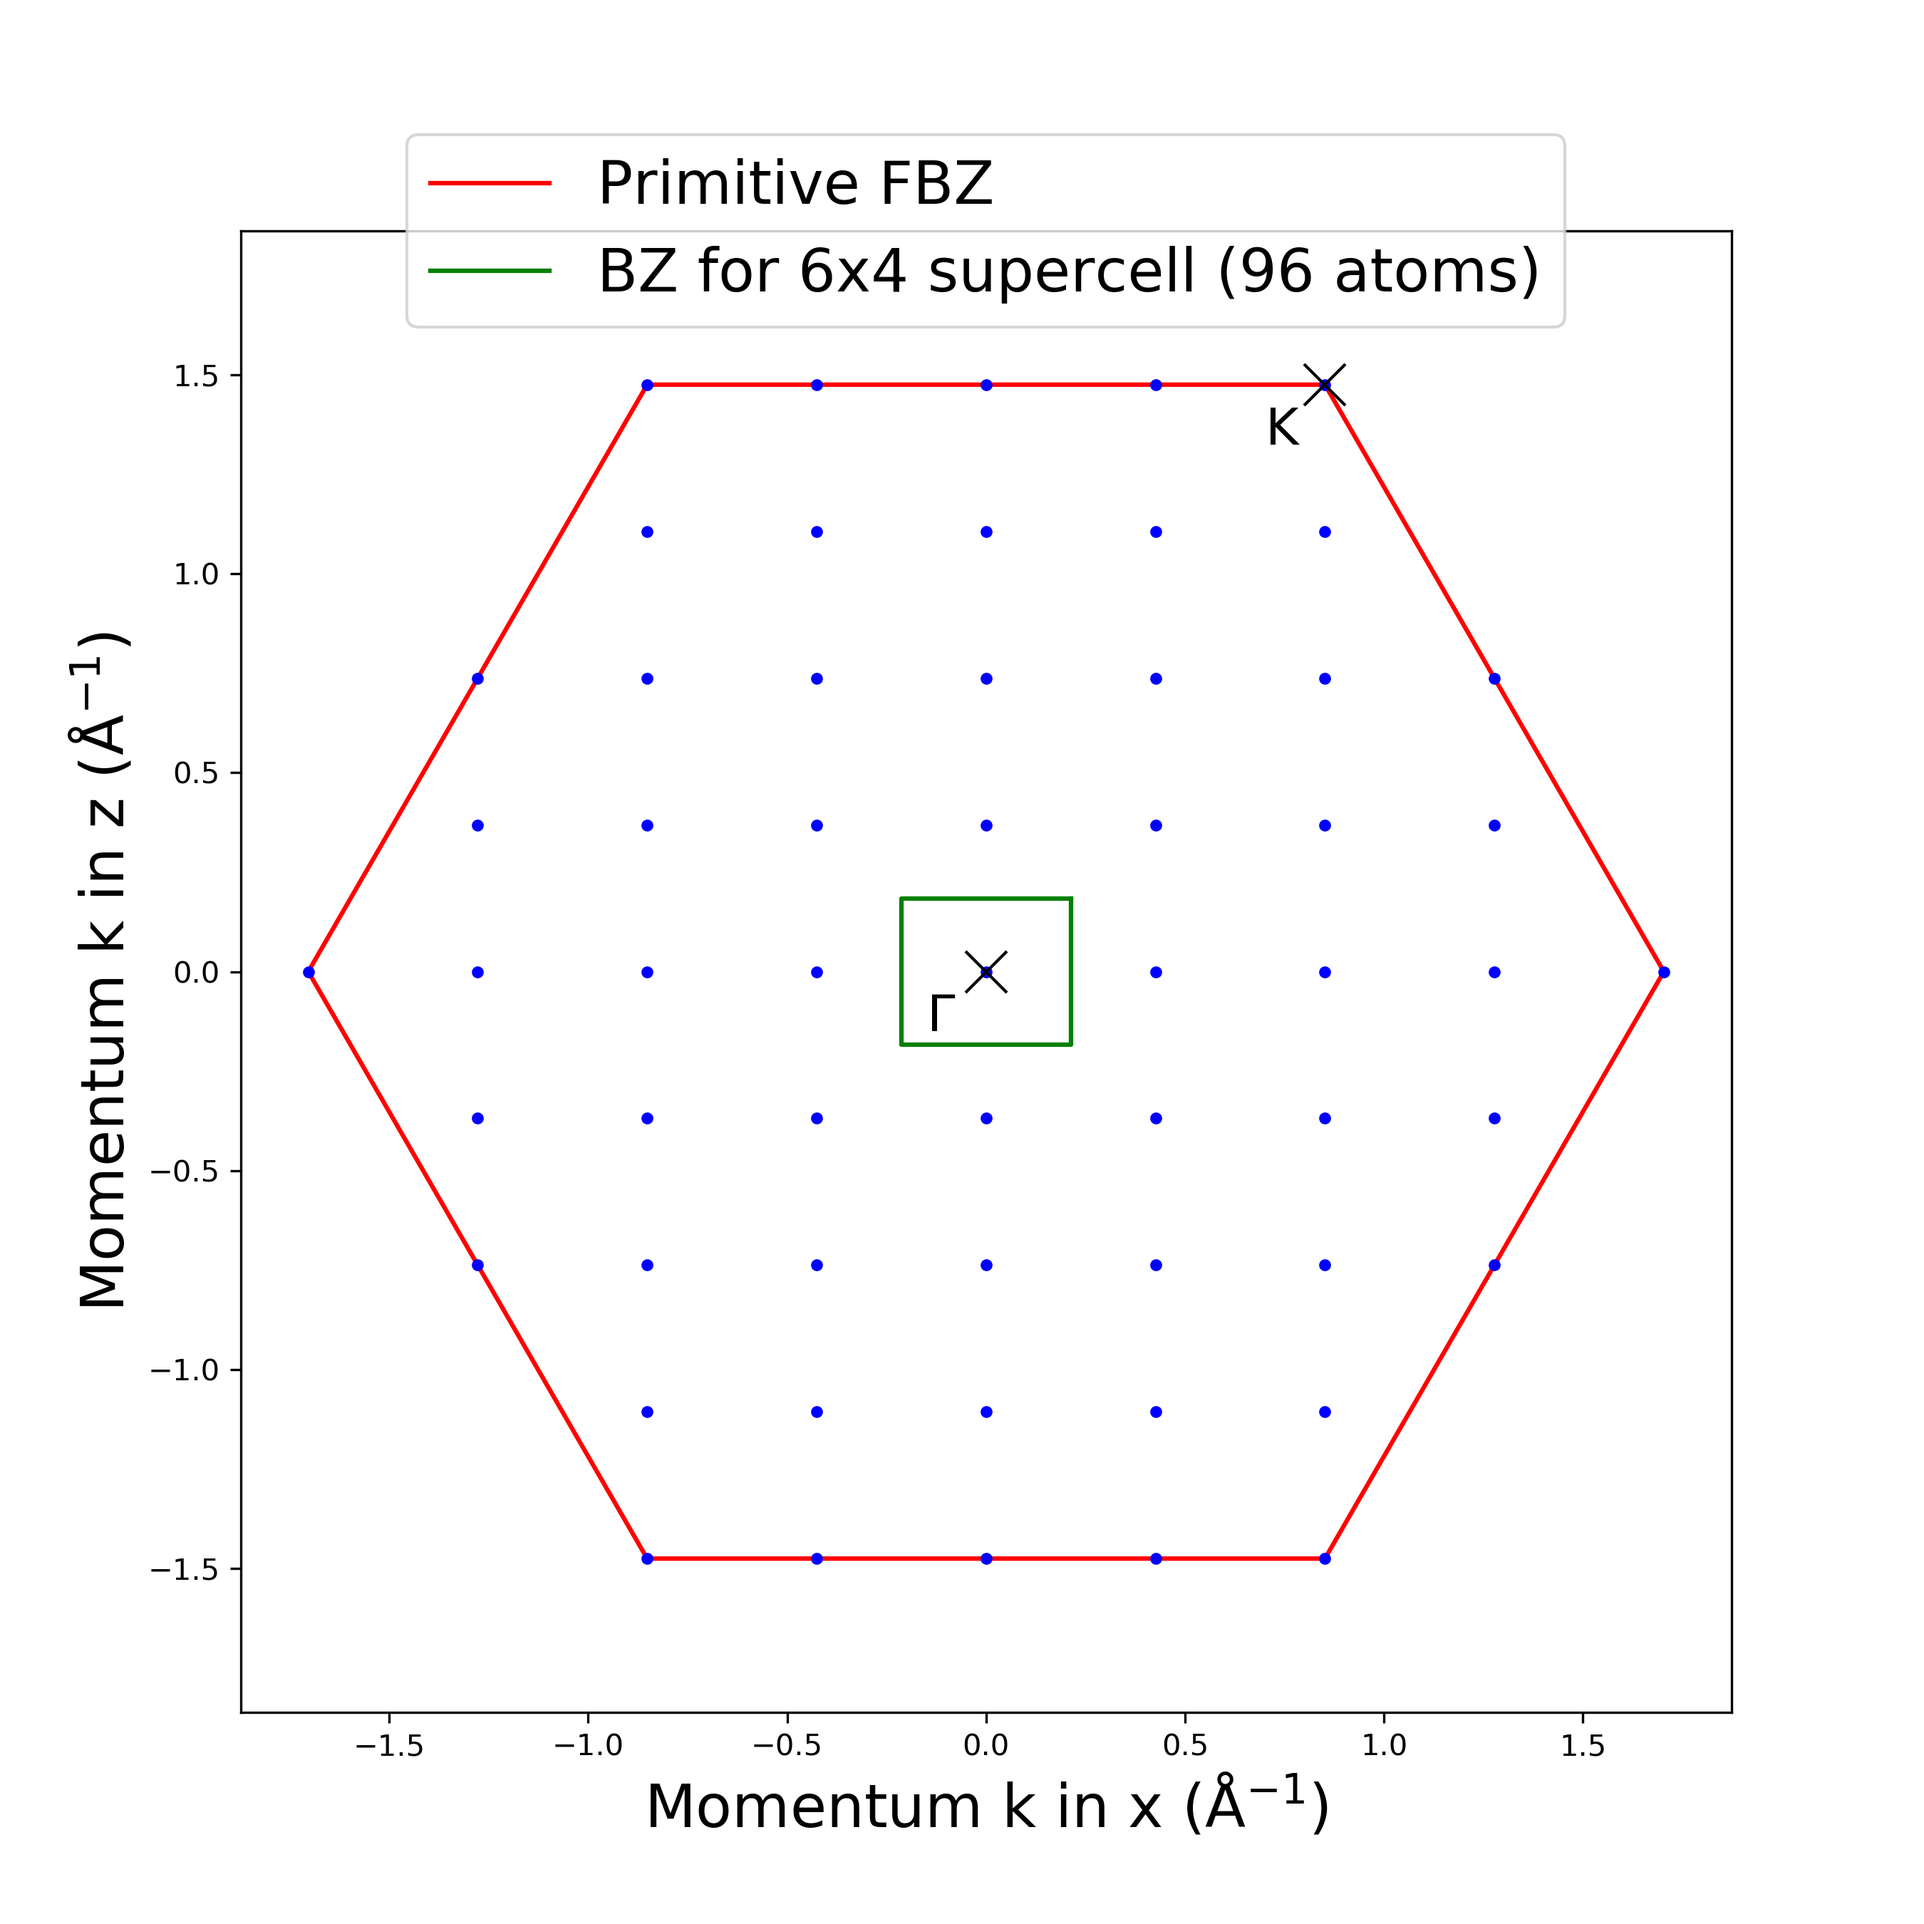
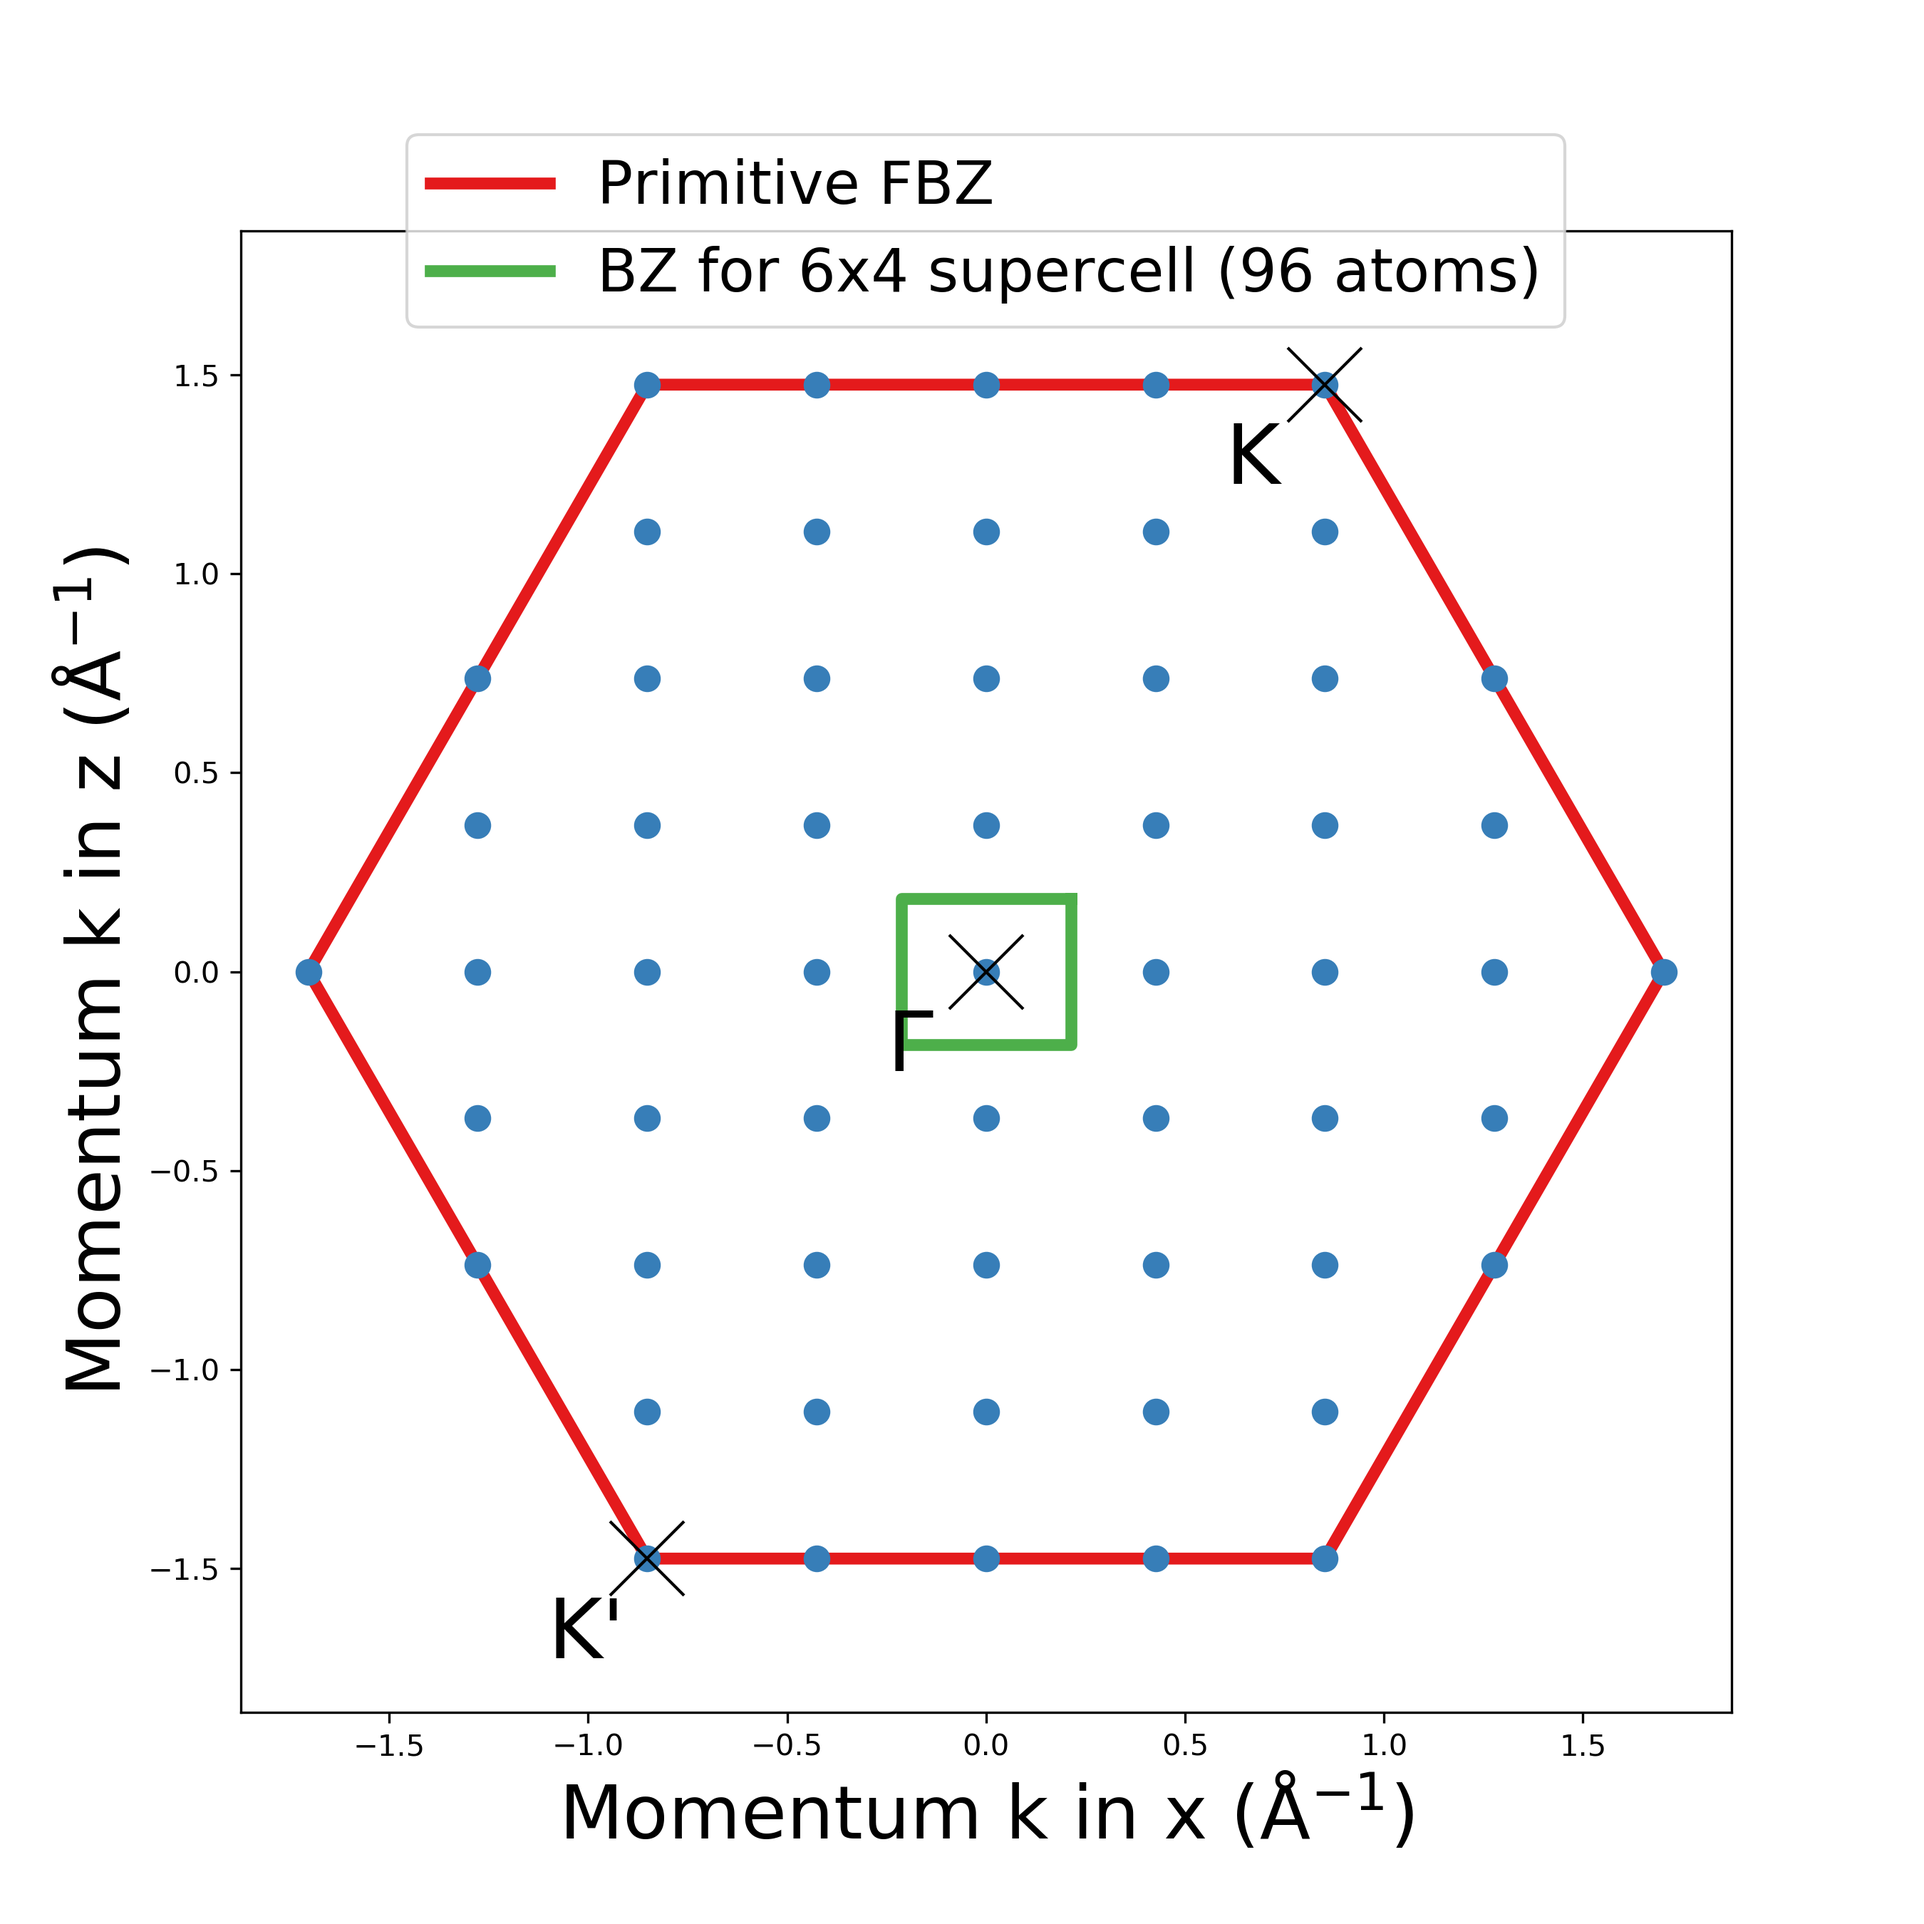
k points figures modified to be more readable in article

diff --git a/big-k-points/grille_bigdft.py b/big-k-points/grille_bigdft.py
@@ -95,26 +95,38 @@ for i in range(len(final)):
 
 # Affichage du graphique
 plt.figure(1, figsize=(9, 9))
-fbr.plot_hex(b_uni, color="r", label="Primitive FBZ")
-fbr.plot_rec(bx, bz, color="g", label="BZ for 9x6 supercell (180 atoms)")
-plt.plot(pointx, pointz, "ob", markersize=3)
-plt.plot(0, 0, "kx", markersize=14)
+fbr.plot_hex(b_uni, color="#e41a1c", label="Primitive FBZ", linewidth="4")
+fbr.plot_rec(bx, bz, color="#4daf4a", label="BZ for 6x4 supercell (96 atoms)", linewidth="4")
+plt.plot(pointx, pointz, "o", color="#377eb8", markersize=8)
+plt.plot(0, 0, "kx", markersize=25)
 plt.plot(
     1 / 3 * b_uni * np.cos(np.pi / 6),
     1 / 3 * b_uni + 1 / 3 * b_uni * np.sin(np.pi / 6),
     "kx",
-    markersize=14,
+    markersize=25,
 )
-plt.text(-0.13, -0.13, "$\Gamma$", fontsize=17)
+plt.plot(
+    - 1 / 3 * b_uni * np.cos(np.pi / 6),
+    - 1 / 3 * b_uni - 1 / 3 * b_uni * np.sin(np.pi / 6),
+    "kx",
+    markersize=25,
+)
+plt.text(-0.25, -0.25, "$\Gamma$", fontsize=28)
 plt.text(
-    1 / 3 * b_uni * np.cos(np.pi / 6) - 0.15,
-    1 / 3 * b_uni + 1 / 3 * b_uni * np.sin(np.pi / 6) - 0.15,
+    1 / 3 * b_uni * np.cos(np.pi / 6) - 0.25,
+    1 / 3 * b_uni + 1 / 3 * b_uni * np.sin(np.pi / 6) - 0.25,
     "K",
-    fontsize=17,
+    fontsize=28,
+)
+plt.text(
+    - 1 / 3 * b_uni * np.cos(np.pi / 6) - 0.25,
+    - 1 / 3 * b_uni - 1 / 3 * b_uni * np.sin(np.pi / 6) - 0.25,
+    "K'",
+    fontsize=28,
 )
 plt.legend(loc='center', bbox_to_anchor=(0.5,1), prop={'size':20}, facecolor='w')
-plt.xlabel("Momentum k in x ($\mathrm{\AA{}}^{-1}$)", fontsize=20)
-plt.ylabel("Momentum k in z ($\mathrm{\AA{}}^{-1}$)", fontsize=20)
+plt.xlabel("Momentum k in x ($\mathrm{\AA{}}^{-1}$)", fontsize=25)
+plt.ylabel("Momentum k in z ($\mathrm{\AA{}}^{-1}$)", fontsize=25)
 
 #plt.show()
-plt.savefig('9x6fig.png',dpi=300)
+plt.savefig('6x4fig.png',dpi=300)
